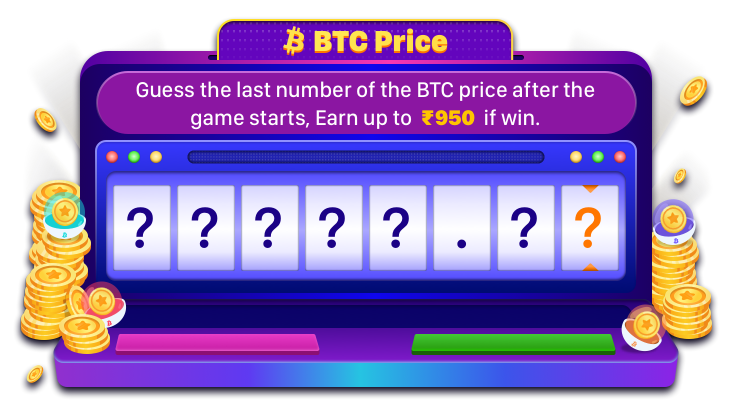
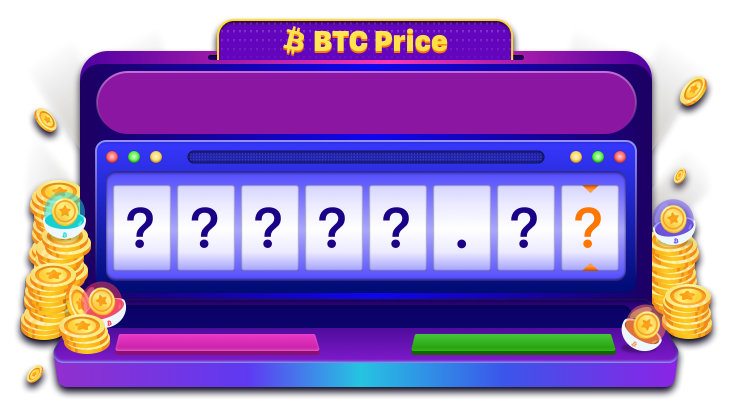
..

Changed region(s): [[0.25, 0.266, 0.7188, 0.3251], [0.1875, 0.1773, 0.8125, 0.2365]]

diff --git a/src/pages/index/components/game/index.vue b/src/pages/index/components/game/index.vue
@@ -10,13 +10,36 @@
 
             <div :class="['_strip',{ing:newName!=''}]" v-if="status!=3">
                 <div class="flip">
-                    <p class="_waiting _front">
+                    <p class="_waiting">
                        <span v-if="status==0 || status==1">Need at least {{atLeastNum}} more players to start</span> 
                        <span v-if="status==2">The game will start in  <span class="wait_bold">{{waitTime}}</span>  seconds</span> 
                     </p>
-                    <p class="_waiting _back">New player : {{newName}} joins the game</p>
+                    <p class="_waiting back">New player : {{newName}} joins the game</p>
                 </div>
             </div>
+
+            <div class="numChooseBox">
+                <div v-for="(item,index) in list" :key="index" class="_numberBox" @click="onChooseNum(item.num,item.user_id)" v-show="(status==3&&item.user_id!='') || status!=3">
+                    <div class="_numImg" >
+                        <img v-if="item.user_id&&(item.user_id.split(',')[0]!=userId)" :src="'../../../../static/images/game/num'+index+'.png'" alt="" srcset="">
+                        <img v-if="chosedNum==item.num||(item.user_id&&(item.user_id.split(',')[0]==userId))" :src="'../../../../static/images/game/in'+index+'.png'" alt="" srcset="">
+                        <img v-else :src="'../../../../static/images/game/un'+index+'.png'" alt="">
+                    </div>
+                    <!-- <div :class="['shadow',{isNumShadow:luckyNum==item.num}]"></div> -->
+                    <p class="name">{{item.user_id | getName}}</p>
+                </div>
+            </div>
+
+            <div v-if="isChoosn">
+                <van-cell title="Your chosen number" value="" :border="false" class="boxCell" title-class="cellTitle">
+                    <p class="chosedNumber">{{chosedNum}}</p>
+                </van-cell>
+                <van-cell title="Player" :value="inNum" :border="false" class="boxCell" title-class="cellTitle" value-class="cellValue"/>
+                <van-cell title="Earn up to" :value="Number(inNum)<Number(minPerson)?'-':'₹'+actualTotal" :border="false" class="boxCell" title-class="cellTitle" value-class="cellValue"/>
+            </div>
+            <p class="_tips" v-if="!isChoosn">Please click above to select a number</p>
+
+
 
 
             <div class="priceBox">
@@ -440,8 +463,67 @@ export default {
         font-size: 27px;
     }
     ._strip{
-        /* background: url('../../../../'); */
+        width: 345px;
+        height: 44px;
+        margin: 10px auto 35px auto;
+        transform-style:preserve-3d;
+        perspective:1000;
+        background: url('../../../../static/images/game/textBg.png') no-repeat 100%/100%;
     }
+    .flip{
+        position: relative;
+        transition:0.6s;
+        transform-style:preserve-3d;
+        width: 345px;
+        height: 44px;
+        /* transform-origin:100% 172px; */
+    }
+    ._waiting{
+        width: 345px;
+        height: 44px;
+        display: flex;
+        align-items: center;
+        justify-content: center;
+        border-radius: 8px;
+        font-size: 14px;
+        color: #fff;
+        position: absolute;
+        top:0;
+        left: 0;
+        right: 0;
+        backface-visibility:hidden;
+    }
+    .back{
+        color: #DC30B9;
+        transform:rotateX(-180deg);
+    }
+    .numChooseBox{
+        display: grid;
+        grid-template-columns: repeat(4, 1fr);
+        column-gap: 5px;
+        row-gap: 15px;
+        margin-top: 35px;
+        min-height: 280px;
+        padding: 0 15px;
+        
+    }
+    ._numberBox{
+        width: 78px;
+    }
+    ._numImg>img{
+        width: 63px;
+        height: 67px;
+        margin: auto;
+        display: block;
+    }
+    ._tips{
+        color: #5C91F3;
+        font-size: 17px;
+        font-weight: 500;
+        margin: 15px;
+        text-align: center;
+    }
+    
 
 /* ----------------------------------------------------- */
 /* ----------------------------------------------------- */
@@ -541,29 +623,8 @@ export default {
         transform-style:preserve-3d;
         perspective:1000;
     }
-    .flip{
-        position: relative;
-        transition:0.6s;
-        transform-style:preserve-3d;
-        width: 345px;
-        height: 44px;
-        /* transform-origin:100% 172px; */
-    }
-    ._waiting{
-        width: 345px;
-        height: 44px;
-        display: flex;
-        align-items: center;
-        justify-content: center;
-        border-radius: 8px;
-        font-size: 14px;
-        color: #fff;
-        position: absolute;
-        top:0;
-        left: 0;
-        right: 0;
-        backface-visibility:hidden;
-    }
+    
+    
     .wait_bold{
         font-size: 16px;
         font-weight: bold;
